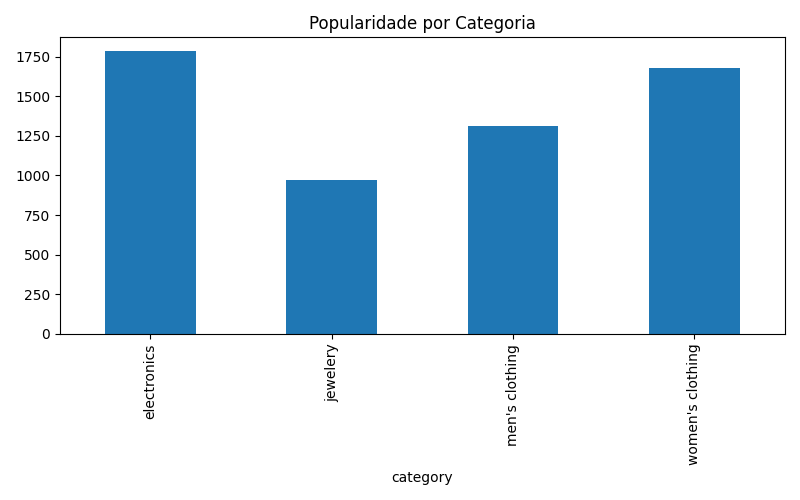
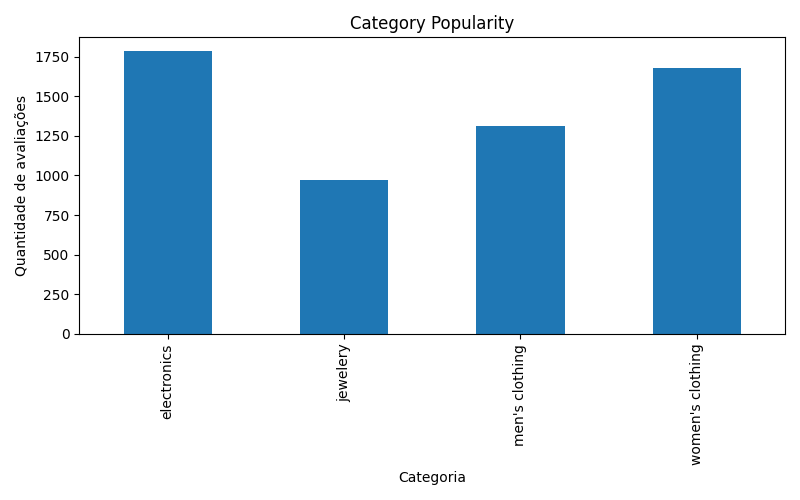
feat: adiciona logs e melhora visualizações

diff --git a/src/visualize.py b/src/visualize.py
@@ -3,9 +3,11 @@ import os
 
 def generate_charts(df):
 
+    print("📊 Gerando gráficos...")
+
     os.makedirs('output/charts', exist_ok=True)
 
-    # TOP produtos por avaliação
+    # Top produtos por avaliação
     top_products = df.sort_values(
         by='rating_rate',
         ascending=False
@@ -18,17 +20,19 @@ def generate_charts(df):
         top_products['rating_rate']
     )
 
-    plt.title('Top Produtos por Avaliação')
+    plt.title('Top Rated Products')
+    plt.xlabel('Avaliação')
+    plt.ylabel('Produto')
 
     plt.tight_layout()
 
     plt.savefig(
-        'output/charts/top_products_rating.png'
+        'output/charts/top_rated_products.png'
     )
 
     plt.close()
 
-    # Categorias mais populares
+    # Popularidade por categoria
     category_popularity = df.groupby(
         'category'
     )['rating_count'].sum()
@@ -37,7 +41,9 @@ def generate_charts(df):
 
     category_popularity.plot(kind='bar')
 
-    plt.title('Popularidade por Categoria')
+    plt.title('Category Popularity')
+    plt.xlabel('Categoria')
+    plt.ylabel('Quantidade de avaliações')
 
     plt.tight_layout()
 
@@ -47,4 +53,4 @@ def generate_charts(df):
 
     plt.close()
 
-    print("Gráficos gerados com sucesso!")
+    print("✅ Gráficos gerados com sucesso!")

diff --git a/src/transform.py b/src/transform.py
@@ -1,10 +1,12 @@
 def transform_data(df):
 
-    # Separar rating em colunas
+    print("🔄 Transformando dados...")
+
+    # Separar rating
     df['rating_rate'] = df['rating'].apply(lambda x: x['rate'])
     df['rating_count'] = df['rating'].apply(lambda x: x['count'])
 
-    # Selecionar colunas importantes
+    # Selecionar colunas
     df = df[[
         'id',
         'title',
@@ -14,6 +16,6 @@ def transform_data(df):
         'rating_count'
     ]]
 
-    print("Dados transformados com sucesso!")
+    print("✅ Dados transformados com sucesso!")
 
     return df

diff --git a/src/extract.py b/src/extract.py
@@ -2,6 +2,9 @@ import requests
 import pandas as pd
 
 def extract_data():
+
+    print("🌐 Conectando na API...")
+
     url = "https://fakestoreapi.com/products"
 
     response = requests.get(url)
@@ -10,6 +13,6 @@ def extract_data():
 
     df = pd.DataFrame(data)
 
-    print("Dados extraídos com sucesso!")
+    print(f"✅ {len(df)} produtos extraídos com sucesso!")
 
     return df

diff --git a/src/load.py b/src/load.py
@@ -3,6 +3,8 @@ import os
 
 def save_to_db(df):
 
+    print("💾 Salvando dados no banco...")
+
     os.makedirs('database', exist_ok=True)
 
     conn = sqlite3.connect('database/products.db')
@@ -16,4 +18,4 @@ def save_to_db(df):
 
     conn.close()
 
-    print("Dados salvos no banco com sucesso!")
+    print("✅ Dados salvos no banco com sucesso!")

diff --git a/README.md b/README.md
@@ -48,7 +48,7 @@ API → Extract → Transform → Load → Visualização
 
 ### ⭐ Top Produtos por Avaliação
 
-![Top Products](output/charts/top_products_rating.png)
+![Top Products](output/charts/top_rated_products.png)
 
 ---
 
